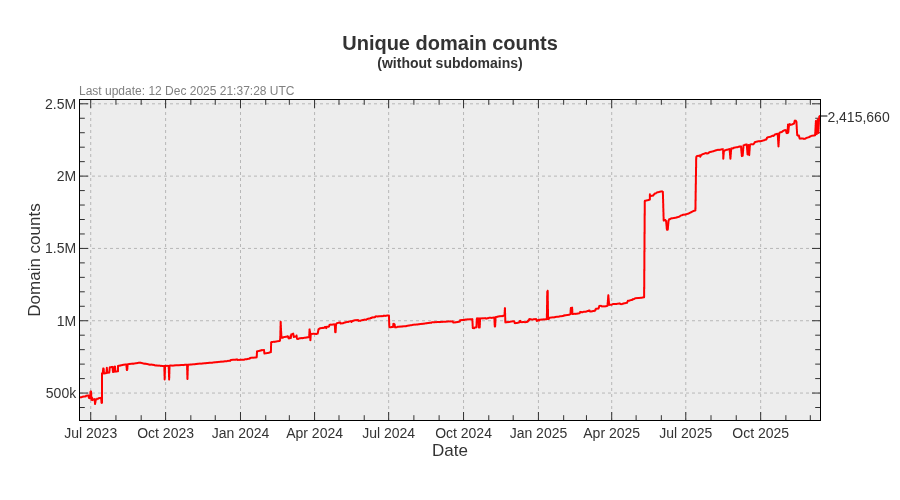
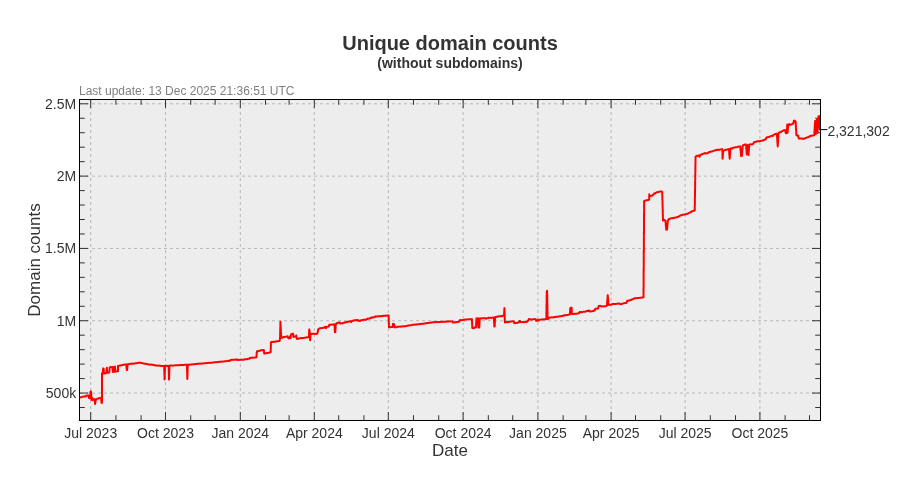
Update pages

diff --git a/README.md b/README.md
@@ -3,22 +3,22 @@ A blocklist file for blocking ads, trackers and malware domains.
 
[1 lines of base64/hex data omitted]
 
-- Unique domains: 3,127,209
-- Without subdomains: 2,415,660
-- Last update: 12 Dec 2025 21:37:28 UTC
-- Version: 2025.12.12.01
+- Unique domains: 3,020,332
+- Without subdomains: 2,321,302
+- Last update: 13 Dec 2025 21:36:51 UTC
+- Version: 2025.12.13.01
 
 
 ### Downloads:
 
 | Format             | Domain count      | Download Link |
 |:------------------ | -----------------:|:-------------:|
-| *Adblock Plus*     | 2,415,660 | [Download](https://dl.cenk.app/bad-hosts/bad-hosts-abp) |
-| *Wildcard domains* | 2,415,660 | [Download](https://dl.cenk.app/bad-hosts/bad-hosts-wildcard) |
-| *dnsmasq*          | 2,415,660 | [Download](https://dl.cenk.app/bad-hosts/bad-hosts-dnsmasq) |
-| *hosts*            | 3,127,209 | [Download](https://dl.cenk.app/bad-hosts/hosts) |
-| *hosts (ipv6)*     | 3,127,209 | [Download](https://dl.cenk.app/bad-hosts/hosts-ipv6) |
-| *Plain domains*    | 3,127,209 | [Download](https://dl.cenk.app/bad-hosts/bad-hosts-domains) |
+| *Adblock Plus*     | 2,321,302 | [Download](https://dl.cenk.app/bad-hosts/bad-hosts-abp) |
+| *Wildcard domains* | 2,321,302 | [Download](https://dl.cenk.app/bad-hosts/bad-hosts-wildcard) |
+| *dnsmasq*          | 2,321,302 | [Download](https://dl.cenk.app/bad-hosts/bad-hosts-dnsmasq) |
+| *hosts*            | 3,020,332 | [Download](https://dl.cenk.app/bad-hosts/hosts) |
+| *hosts (ipv6)*     | 3,020,332 | [Download](https://dl.cenk.app/bad-hosts/hosts-ipv6) |
+| *Plain domains*    | 3,020,332 | [Download](https://dl.cenk.app/bad-hosts/bad-hosts-domains) |
 
 ### Domain count history
 #### With subdomains
